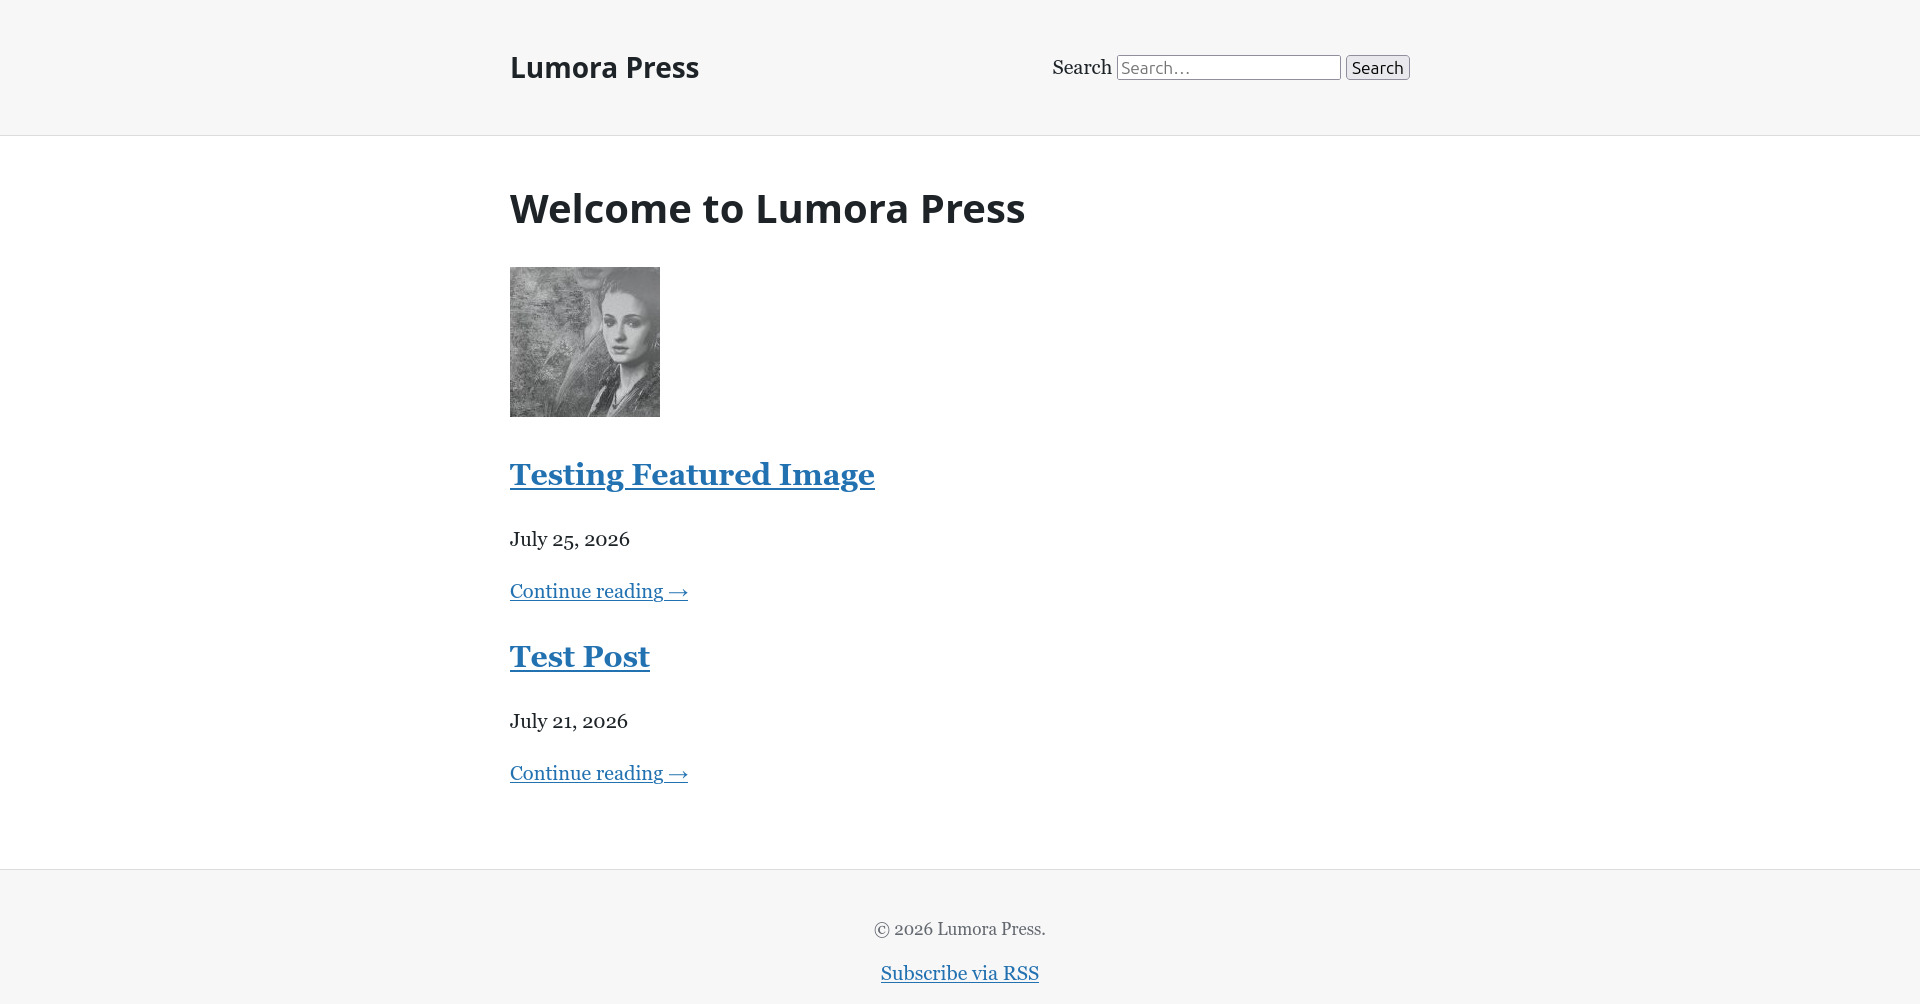
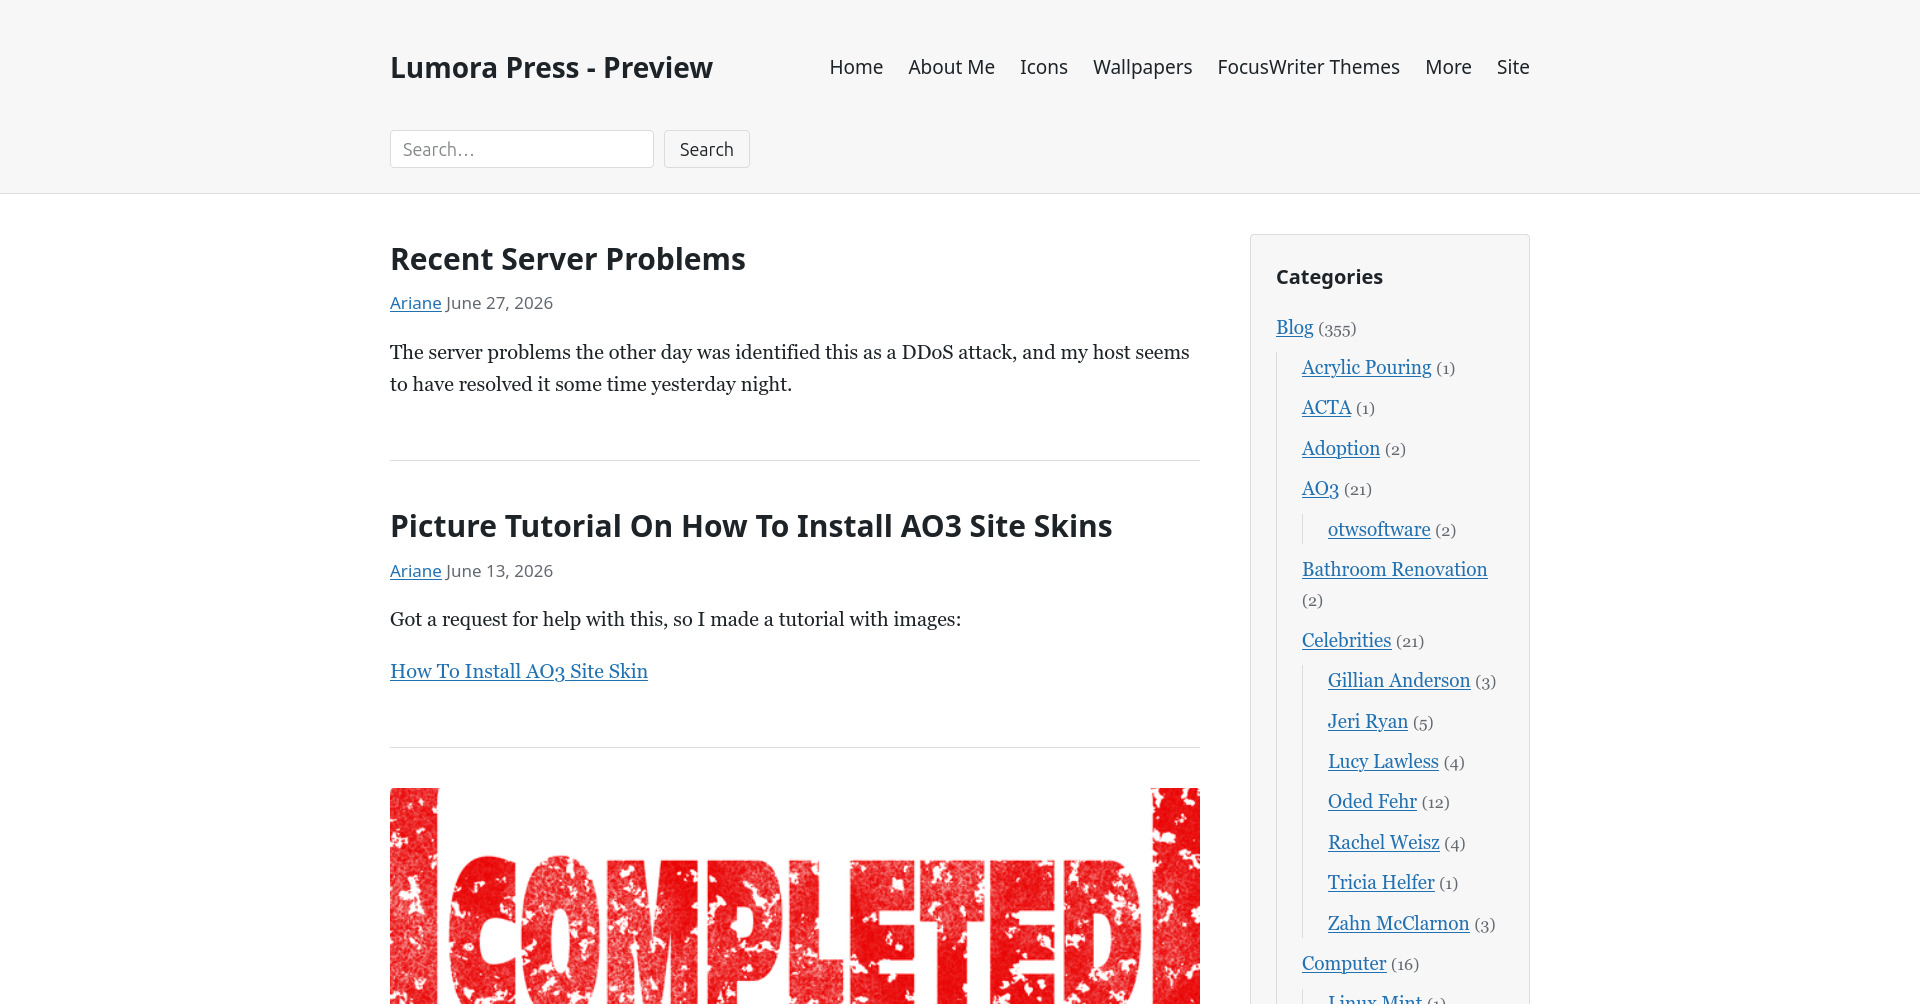
default theme: refresh Appearance > Themes screenshot
preview.jpg hadn't been regenerated since the v0.3.0 release and no
longer matched the theme's current appearance after several since-
shipped changes.

diff --git a/docs/CHANGELOG.md b/docs/CHANGELOG.md
@@ -537,6 +537,9 @@ All notable changes to Lumora Press are documented in this file.
 
 ### Changed
 
+- default theme: refreshed `preview.jpg` (the Appearance › Themes
+  screenshot) to match the theme's current appearance — the previous
+  image predated several since-shipped changes.
 - WordPress Importer: Maintenance › Import's separate "Preview (Dry
   Run)" and "Start Import" forms (LPP-004) are now one form — a "Dry
   run (preview only — makes no changes)" checkbox above the single
